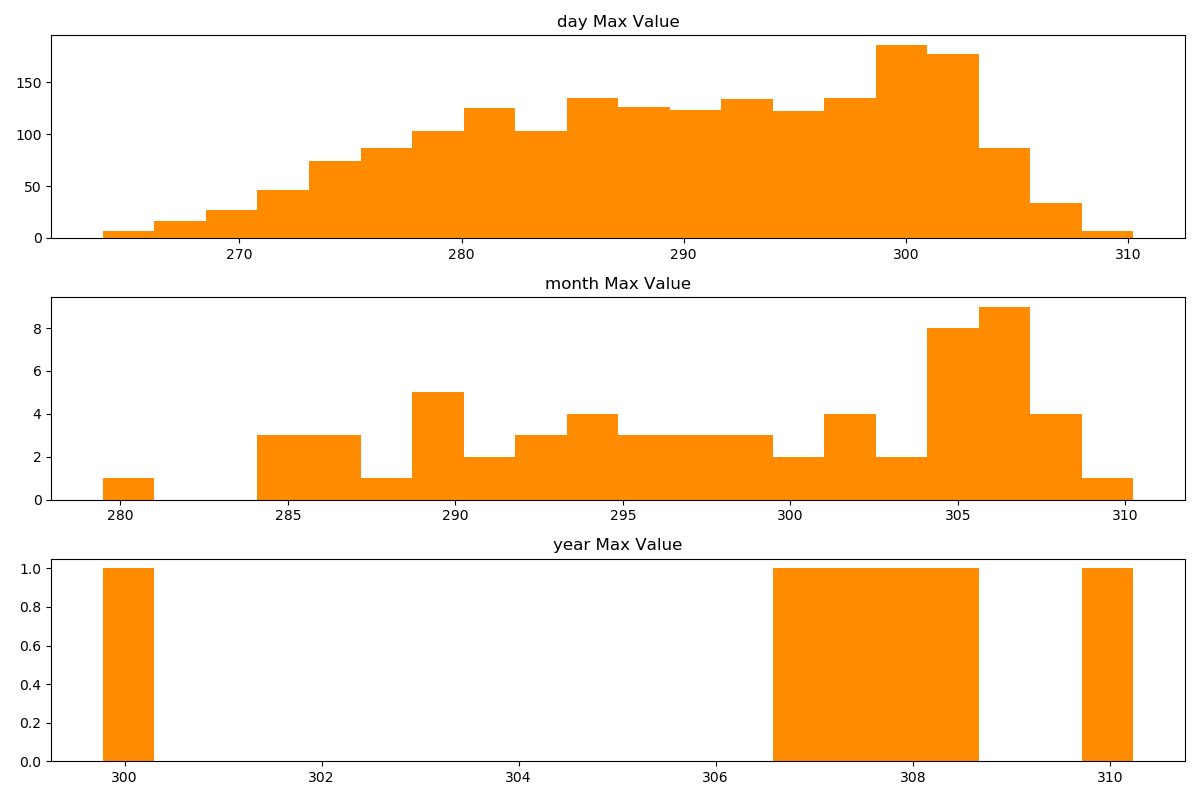
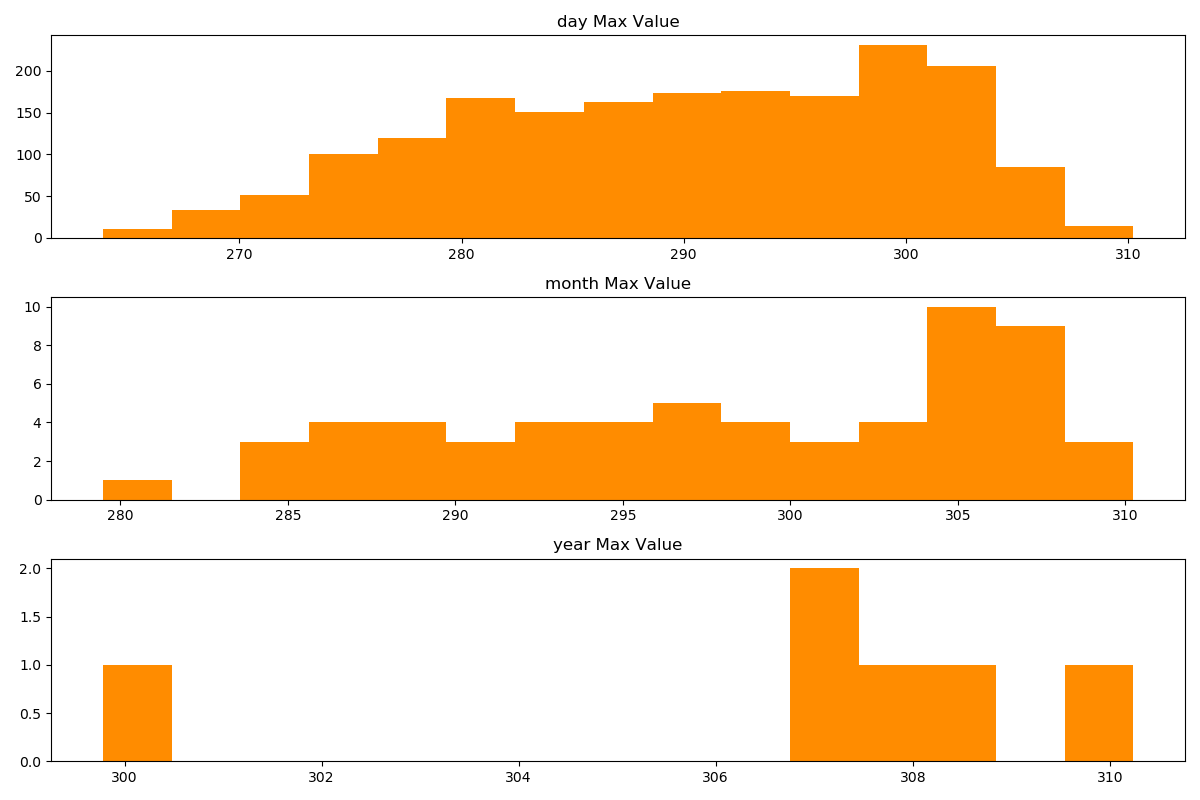
Working on script

diff --git a/plotter.py b/plotter.py
@@ -1,6 +1,8 @@
 import numpy as np 
 import matplotlib.pyplot as plt
 from constants import * 
+from scipy.stats import genextreme
+
 
 def distribution_plotter(max_values_dict, image_path = DEFAULT_IMAGE_PATH):
     count = 1 
@@ -9,8 +11,33 @@ def distribution_plotter(max_values_dict, image_path = DEFAULT_IMAGE_PATH):
     for key in max_values_dict:
         plt.subplot(n,1,count)
         plt.title(key + ' Max Value')
-        plt.hist(max_values_dict[key], color ='darkorange', bins  = 20)
+        plt.hist(max_values_dict[key], color ='darkorange', bins  = BIN_NUMBER)
         count += 1 
     plt.tight_layout()
     plt.savefig(image_path)
     
+
+
+def gev_plotter(data, c, loc, scale, bins=BIN_NUMBER):
+    """
+    Plot the histogram of data and the fitted GEV PDF.
+
+    Parameters:
+    - data: array-like, the observed data (e.g., yearly maxima)
+    - c: shape parameter from GEV fit
+    - loc: location parameter from GEV fit
+    - scale: scale parameter from GEV fit
+    - bins: number of bins for the histogram
+    """
+    x = - np.linspace(min(data), max(data), 10_000)
+    pdf = genextreme.pdf(x, c, loc=loc, scale=scale)
+
+    plt.figure(figsize=IMAGE_FIGSIZE)
+    plt.hist(-data, bins= bins, density=True, alpha=0.6, color='gray', label='Empirical histogram')
+    plt.plot(x, pdf, 'r-', lw=2, label='GEV fit')
+    plt.xlabel('Value')
+    plt.ylabel('Density')
+    plt.title('GEV Fit to Maximum Value Distribution')
+    plt.legend()
+    plt.grid(True)
+    plt.show()

diff --git a/rare_events_processor.py b/rare_events_processor.py
@@ -3,6 +3,7 @@ import matplotlib.pyplot as plt
 import pandas as pd
 from constants import * 
 from plotter import * 
+from scipy.stats import genextreme
 
 class RareEventsToolbox():
     def __init__(self, data):
@@ -38,13 +39,29 @@ class RareEventsToolbox():
         return max_value
     
 
-    def extract_max_values(self):
-        keys = ['day','month','year']
+    def extract_max_values(self, keys = KEYS):
         self.max_values_dict = {k : [] for k in keys}
         for k in keys:
             self.max_values_dict[k] = self.extract_block_max(key = k)
         return self.max_values_dict
     
 
+    def fit_max_distributions(self, keys = KEYS):
+        self.max_values_fit = {k: {} for k in keys}
+        for k in keys:
+            c, loc, scale = genextreme.fit(-self.max_values_dict[k])
+            self.max_values_fit[k] = {'c':c, 'loc': loc, 'scale':scale}
+        return self.max_values_fit
+
+    
+    def plot_fitted_distributions(self, key = 'day'):
+        gev_plotter(self.max_values_dict[key], self.max_values_fit[key]['c'], self.max_values_fit[key]['loc'],
+                    self.max_values_fit[key]['scale'])
+        
+
+
     def plot_distributions(self):
         distribution_plotter(self.max_values_dict)
+
+
+    

diff --git a/distributions.py b/distributions.py
@@ -1,0 +1,7 @@
+import numpy as np
+import matplotlib.pyplot as plt
+from scipy.stats import weibull_min, genextreme, norm, probplot
+
+class Distribution():
+    def __init__(self, dist_type):
+        

diff --git a/constants.py b/constants.py
@@ -2,3 +2,5 @@ DEFAULT_DATA_PATH = 'RawData/'
 DEFAULT_DATA_FILE = 'weather_data.csv'
 DEFAULT_IMAGE_PATH = 'images/'
 IMAGE_FIGSIZE = (12,8)
+KEYS = ['day','month','year']
+BIN_NUMBER = 15
